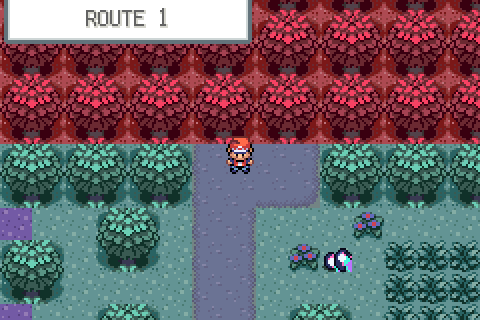
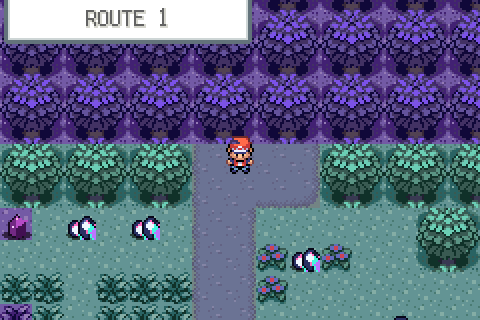
Route 1 v2: chemin sinueux, murs de collines, corniches, panneau en art (v1 conservee en reference)
Claude-Session: https://claude.ai/code/session_01GQJ6VBZbBVtTh4mURN6n2L

diff --git a/docs/topaze/reference/route1_gradient_v1.py b/docs/topaze/reference/route1_gradient_v1.py
@@ -53,13 +53,12 @@ def stage_pal(i, t):
     out = [c if k == 0 else hlerp(tint_garnet(*c), tint_opal(*c), t) for k, c in enumerate(ORIG[i])]
     if i == 5: out = [out[0]] + [desat(c, 1 - 0.65 * t) for c in out[1:]]       # sable : la route reste pale vers le nord (comme l'avenue d'Opanihrum)
     return out
-SLOT = {0: {0: 0, 2: 2, 5: 5, 3: 12}, 1: {0: 1, 2: 3, 5: 4, 3: 12}, 2: {0: 7, 2: 8, 5: 9, 3: 12}}     # palette d'origine -> emplacement, par etage
-ART_SLOT = {0: 6, 1: 10, 2: 11}; ROCK_SLOT = 12
+SLOT = {0: {0: 0, 2: 2, 5: 5}, 1: {0: 1, 2: 3, 5: 4}, 2: {0: 7, 2: 8, 5: 9}}     # palette d'origine -> emplacement, par etage
+ART_SLOT = {0: 6, 1: 10, 2: 11}; SIGN_SLOT = 12
 PALS = {}                                        # emplacement -> palette
 for st in range(3):
-    for o, s in SLOT[st].items():
-        if o != 3: PALS[s] = stage_pal(o, TS_[st])
-PALS[ROCK_SLOT] = stage_pal(3, 0.5)          # roche : meme palette violet-gris sur toute la route
+    for o, s in SLOT[st].items(): PALS[s] = stage_pal(o, TS_[st])
+PALS[SIGN_SLOT] = stage_pal(1, 0.0)
 # ------------------------------------------------------------------ metatuiles : variantes par etage
 mt = open(EM + 'tilesets/primary/general/metatiles.bin', 'rb').read(); patt = open(EM + 'tilesets/primary/general/metatile_attributes.bin', 'rb').read()
 hdr = open('include/constants/metatile_behaviors.h').read()
@@ -75,17 +74,20 @@ def conv(v):
 PATT32 = [conv(struct.unpack('<H', patt[i * 2:i * 2 + 2])[0]) for i in range(len(patt) // 2)]
 SEC_ENT = []; SEC_ATT = []; VAR = {}
 def variant(m, st, special=None):
-    """numero de metatuile FireRed pour la metatuile primaire m a l'etage st (etage 0 : la primaire elle-meme si aucune palette ne change)."""
-    key = (m, st)
+    """numero de metatuile FireRed pour la metatuile primaire m a l'etage st (0 = primaire tel quel)."""
+    if st == 0 and special is None: return m
+    key = (m, st, special)
     if key in VAR: return VAR[key]
-    e = list(struct.unpack('<8H', mt[m * 16:m * 16 + 16]))
-    out = [(q & 0xfff) | (SLOT[st].get(q >> 12, q >> 12) << 12) for q in e]
-    if out == e: VAR[key] = m; return m
+    e = list(struct.unpack('<8H', mt[m * 16:m * 16 + 16])); out = []
+    for q in e:
+        p = q >> 12; mp = dict(SLOT[st]); 
+        if special == 'sign': mp[1] = SIGN_SLOT
+        out.append((q & 0xfff) | (mp.get(p, p) << 12))
     SEC_ENT.append(out); SEC_ATT.append(PATT32[m]); VAR[key] = 640 + len(SEC_ENT) - 1
     return VAR[key]
 # ------------------------------------------------------------------ carte
 W, H = 26, 54
-GRASS_M, FLOWER_M, TALL_M = 1, 4, 13
+GRASS_M, FLOWER_M, TALL_M, SIGN_M = 1, 4, 13, 3
 TREE = [[468, 469], [476, 477]]
 G = {}; OCC = {}; STG = {}
 rnd = random.Random(1010)
@@ -121,7 +123,7 @@ PATH = set()
 def seg(x0, y0, x1, y1):
     for y in range(min(y0, y1), max(y0, y1) + 1):
         for x in range(min(x0, x1), max(x0, x1) + 1): PATH.add((x, y))
-pts = [(12, H - 1), (12, 48), (6, 48), (6, 42), (14, 42), (14, 37), (8, 37), (8, 31), (16, 31), (16, 26), (10, 26), (10, 20), (18, 20), (18, 15), (8, 15), (8, 9), (14, 9), (14, 0)]
+pts = [(12, H - 1), (12, 44), (5, 44), (5, 30), (17, 30), (17, 18), (9, 18), (9, 8), (14, 8), (14, 0)]
 for (a, b) in zip(pts, pts[1:]):
     (x0, y0), (x1, y1) = a, b
     seg(x0, y0, x1, y1 + 1) if y0 == y1 else seg(x0, y0, x1 + 1, y1)
@@ -141,40 +143,12 @@ def path_id(x, y):
 for (x, y) in PATH:
     if 0 <= x < W and 0 <= y < H: put(x, y, 0x3000, path_id(x, y)); OCC[(x, y)] = 'chemin'
 # ---- herbes hautes (rencontres)
-# ---- collines (monticules de roche 2x2), murs de collines qui ne laissent que le chemin, corniches (saut vers le sud)
-MOUND = [[131, 132], [139, 140]]
-def mound(x, y):
-    claim(x, y, 2, 2, 'colline'); st = stage_at(x + 1, y + 1)
-    for j in range(2):
-        for i in range(2): G[(x + i, y + j)] = 0x400 | variant(MOUND[j][i], st)
-def free2(x, y): return all((x + i, y + j) not in OCC for i in range(2) for j in range(2))
-def wall(y):
-    for x in range(2, W - 3, 2):
-        if free2(x, y): mound(x, y)
-for y in (44, 33, 22, 16, 11): wall(y)
-LEDGES = []
-def ledge(x, y, n):
-    for i in range(n):
-        LEDGES.append((x + i, y))
-        claim(x + i, y, 1, 1, 'corniche'); G[(x + i, y)] = 0x3000 | variant(213 + (i % 2), stage_at(x + i, y))
-for (x, y, n) in ((2, 39, 5), (19, 36, 5), (2, 28, 4), (19, 28, 4), (14, 12, 5)):
-    if all((x + i, y) not in OCC for i in range(n)): ledge(x, y, n)
-    if free2(x - 2, y) and x >= 4: mound(x - 2, y)
-    if free2(x + n, y) and x + n <= W - 4: mound(x + n, y)
-# ---- herbes hautes (rencontres) : rectangles libres pres du chemin
-STONE = (19, 5)
-for j in range(3):
-    for i in range(3): OCC[(STONE[0] + i, STONE[1] + j)] = 'reserve'
-TALL = []
-tries = 0
-while len(TALL) < 10 and tries < 3000:
-    tries += 1; x0 = rnd.randint(2, W - 8); y0 = rnd.randint(3, H - 8); w = rnd.randint(3, 5); h = rnd.randint(3, 4)
-    cells = [(x, y) for y in range(y0, y0 + h) for x in range(x0, x0 + w)]
-    if x0 + w > W - 3 or y0 + h > H - 4 or any(c in OCC for c in cells): continue
-    if not any((x + dx, y + dy) in PATH for (x, y) in cells for dx in (-3, 3) for dy in (-3, 3)): continue
-    if any((x, y) in OCC for (x, y) in [(x0 - 1, y0 + k) for k in range(h)] + [(x0 + w, y0 + k) for k in range(h)]) and False: continue
-    TALL.append((x0, y0, x0 + w - 1, y0 + h - 1))
-    for c in cells: OCC[c] = 'herbe'; put(c[0], c[1], 0x3000, TALL_M)
+TALL = [(6, 47, 9, 50), (1, 33, 3, 38), (7, 33, 11, 36), (19, 33, 23, 37), (19, 22, 23, 26), (12, 20, 15, 25), (1, 12, 6, 16), (11, 11, 16, 15), (19, 9, 23, 13), (20, 3, 24, 6)]
+for (x0, y0, x1, y1) in TALL:
+    for y in range(y0, y1 + 1):
+        for x in range(x0, x1 + 1):
+            if (x, y) in OCC: continue
+            OCC[(x, y)] = 'herbe'; put(x, y, 0x3000, TALL_M)
 # ---- art : cristaux (prismes de grenat -> domes d'opale), pierre du degrade
 LG = E.load('general', 'petalburg')
 def grass_cols(st):
@@ -247,25 +221,16 @@ ART = {}      # (nom, etage) -> indice(s) de metatuile d'art
 for st in range(3):
     ART[('sm0', st)] = meta(small(st, 0), st); ART[('sm1', st)] = meta(small(st, 1), st)
     b = big(st); ART[('big', st)] = {(i, j): meta(b.crop((i * 16, j * 16, i * 16 + 16, j * 16 + 16)), st) for j in range(3) for i in range(3)}
-def sign_art(st):
-    im = ground_bg(16, 16, st); d = ImageDraw.Draw(im); d.ellipse((2, 12, 14, 15), fill=13)
-    d.rectangle((7, 8, 8, 14), fill=6, outline=5); d.rectangle((2, 2, 13, 9), fill=8, outline=5)
-    for y in (4, 6): d.line([(4, y), (11, y)], fill=6)
-    return im
-for st in range(3): ART[('sign', st)] = meta(sign_art(st), st)
 ART_PLACE = {}
 def art1(x, y, name):
     claim(x, y, 1, 1, 'cristal'); ART_PLACE[(x, y)] = ART[(name, stage_at(x, y))]
 def art_big(x0, y0):
     st = stage_at(x0 + 1, y0 + 1); claim(x0, y0, 3, 3, 'pierre du degrade')
     for (i, j), k in ART[('big', st)].items(): ART_PLACE[(x0 + i, y0 + j)] = k
-for j in range(3):
-    for i in range(3): del OCC[(STONE[0] + i, STONE[1] + j)]
-art_big(*STONE)                                  # la pierre du degrade, a l'est du chemin
+art_big(20, 15)                                  # la pierre du degrade, a l'est du chemin
 # ---- panneau, PNJ
-SIGN = (11, 51); claim(*SIGN, 1, 1, 'panneau'); ART_PLACE[SIGN] = ART[('sign', 0)]
-NPC = {'clerk': (14, 50), 'boy': (18, 29)}
-for c in NPC.values(): assert c not in OCC, ('PNJ sur un decor', c)
+SIGN = (11, 49); claim(*SIGN, 1, 1, 'panneau'); put(SIGN[0], SIGN[1], 0x400, SIGN_M, special='sign')
+NPC = {'clerk': (14, 46), 'boy': (15, 28)}
 # ---- bosquets d'arbres (hors chemin, hors herbes, hors cases reservees ; marge de 1 case)
 def near(x, y, r=1):
     for j in range(-r, r + 1):
@@ -305,7 +270,7 @@ while q:
     for d in ((0, 1), (1, 0), (-1, 0), (0, -1)):
         n = (c[0] + d[0], c[1] + d[1])
         if 0 <= n[0] < W and 0 <= n[1] < H and n not in seen and not blocked(n): seen.add(n); q.append(n)
-for c in [(x, 0) for x in N_GATE] + [(x, H - 1) for x in S_GATE] + list(NPC.values()) + [(SIGN[0] + 1, SIGN[1])]: assert c in seen, ('inaccessible', c)
+for c in [(x, 0) for x in N_GATE] + [(x, H - 1) for x in S_GATE] + list(NPC.values()) + [(SIGN[0], SIGN[1] + 1)]: assert c in seen, ('inaccessible', c)
 for (x0, y0, x1, y1) in TALL: assert (x0, y0) in seen or (x1, y1) in seen, ('herbe inaccessible', x0, y0)
 # ------------------------------------------------------------------ ecriture
 for _m in (468, 469, 476, 477): variant(_m, 1)      # bord de carte : arbres du mélange (violet), neutre entre les deux villes
@@ -370,7 +335,7 @@ L = json.load(open('data/layouts/layouts.json'))
 for l in L['layouts']:
     if l.get('id') == 'LAYOUT_ROUTE1': l.update(width=W, height=H, primary_tileset='gTileset_GeneralGradient', secondary_tileset='gTileset_GradientRoad')
 json.dump(L, open('data/layouts/layouts.json', 'w'), indent=2); open('data/layouts/layouts.json', 'a').write('\n')
-json.dump({'sign': SIGN, 'npc': NPC, 'w': W, 'h': H, 'tall': TALL, 'ledges': LEDGES}, open('/tmp/route1_info.json', 'w'))
+json.dump({'sign': SIGN, 'npc': NPC, 'w': W, 'h': H, 'tall': TALL}, open('/tmp/route1_info.json', 'w'))
 blk = sorted([x, y] for (x, y) in ((x, y) for y in range(H) for x in range(W)) if blocked((x, y)))
 json.dump({'w': W, 'h': H, 'blocked': blk}, open('/tmp/route1_col.json', 'w'))
 print('route 1 : metatuiles', len(SEC_ENT), 'tuiles art', len(ART_T))

diff --git a/tools/topaze/emu/t_route1b.py b/tools/topaze/emu/t_route1b.py
@@ -4,9 +4,11 @@ from townlib import *
 import json
 import grenalux_paths as P
 info = json.load(open('/tmp/route1_info.json'))
+P.B = {tuple(c) for c in json.load(open('/tmp/route1_col.json'))['blocked']}
 P.B |= {(x, y) for (x0, y0, x1, y1) in info['tall'] for y in range(y0, y1 + 1) for x in range(x0, x1 + 1)}
+P.B |= {tuple(c) for c in info['ledges']} | {tuple(c) for c in info['npc'].values()}
 start('r1_0')
-for tgt in ((12, 49), (15, 30), (15, 9)):
+for tgt in ((12, 50), (14, 40), (9, 30), (11, 21), (13, 15), (9, 10), (15, 4)):
     print(tgt, goto(tgt, maxit=30))
 print(sh(['shot r1_mid.ppm']))
 print('nord ->', goto((15, 1), maxit=20), sh(['key UP 40', 'run 100', 'shot r1_op.ppm']))

diff --git a/docs/technique/ARCHITECTURE.md b/docs/technique/ARCHITECTURE.md
@@ -48,7 +48,7 @@ Le dépôt est celui de pokefirered ; seuls les éléments modifiés pour Topaze
 | **Grenalux v5 – grande ville 44×36 (référence v5)** | `docs/topaze/grenalux_big.py` (ordre : `import_emerald_tiles.py` → `grenat_palette.py` → `grenalux_big.py`) : avenue nord-sud, grande rue est-ouest, place centrale avec îlot et monument de cristal, bassin sud relié à la route 21, 4 bâtiments utiles (joueur (8,9), ranch (36,8), labo (35,21), musée (8,21)) et 6 maisons décoratives, potager, ~34 arbres, cristaux. Connexions : route 1 décalée de 10 (ouverture en x=22..23), route 21 décalée de 14 (eau en x=21..23). `heal_locations.json` : respawn (8,10). **La v4 (24×20) reste la référence** : branche `grenalux-v4-reference` et `docs/topaze/reference/` (carte, map.json, scripts, image) ; ses scripts (`grenalux_emerald.py`, `grenalux_crystals.py` en `__main__`) restent exécutables mais il faut alors remettre les dimensions 24×20 dans `layouts.json` et `map.json`. |
 | **Grenalux v6 – ville vivable (version actuelle)** | `docs/topaze/grenalux_town.py` puis `grenalux_events.py` (ordre : `import_emerald_tiles.py` → `grenat_palette.py` → `git checkout fa8f0d0 -- data/layouts/layouts.json` → `grenalux_town.py` → `grenalux_events.py`). Plan d'occupation avec assertions (aucun chevauchement, portes et PNJ atteignables), toits en variantes de palette (11 ardoise-violet, 12 ocre), lampadaires de cristal, cristaux gardiens de l'avenue, carrière de blocs + entrée de mine à l'est, bassin avec promenade, potager, bosquets, chemins de portes par BFS, 6 PNJ d'ambiance (textes provisoires). **Ranch** : maison voisine remplacée par un **jardin de baies décoratif** (parcelle clôturée, buissons à baies non récoltables, jardinière qui l'explique) ; panneau du ranch en (37,9). Clôtures, foin, abreuvoir, buissons, grange et silo (grand ranch) sont dessinés par code dans `grenalux_crystals.py` (pas de moulin/grange dans les tilesets officiels FR/Émeraude). **Grand ranch** : carte `PalletTown_Ranch` (32×24, groupe 4 n°5, layout `LAYOUT_PALLET_TOWN_RANCH`), généré par la 2ᵉ partie de `grenalux_town.py` puis `grenalux_ranch_events.py` ; accessible par l'ouverture du cadre d'arbres à l'est de Grenalux (x=42..43, y=6..7, connexion « droite » décalage 0) : écurie, grange + silo, 3 enclos, cristaux, ouvriers, fillette, animaux. **Avant/après l'attaque** (`FLAG_GRENALUX_ONYBRIS_STRIKE`) : clôture est de l'enclos B intacte puis ouverte (`setmetatile` au chargement), Doduo et 2 Nidoran (Pokémon pisteurs) présents puis disparus, ouvrier au pied de la clôture coupée (`FLAG_HIDE_RANCH_CUT_HAND`) visible seulement après, dialogues des ouvriers changés. Mêmes portes/coordonnées d'événements que la v5 sauf panneau du labo (36,22). **Sorties de ville** : nord (Route 1) et sud (Route 21, par l'eau) sont des **warps** (pas des connexions : mélange de tilesets Émeraude/FR = tuiles brouillées) ; un warp s'active sur case ordinaire dans PalletTown/Route1/Route21_North grâce à `IsTopazeStepWarpMap()` (`src/field_control_avatar.c`). Seule la connexion est (ranch) subsiste, même tileset. Les versions v4 (24×20) et v5 (44×36) restent archivées : branches `grenalux-v4-reference`, `grenalux-v5-reference` et `docs/topaze/reference/`. |
 | **Opanihrum v1 – la cité de l'Opale noire (arène d'Hepha, Acier)** | Ville 42×40 (slot de Jadielle, `LAYOUT_VIRIDIAN_CITY`) construite avec les décors de **Rustboro** (pierre grise d'Émeraude) recolorés en ardoise bleu-nuit (« plus il est sombre, plus il cache de couleurs », cf. dialogue d'Hepha) + art procédural : monument d'opale noire à reflets irisés, enclumes, lingots. `docs/topaze/opanihrum_town.py` (génère carte + tilesets `general_opal` / `rustboro_opal`, **secondaire compacté** : seules les métatuiles utilisées sont gardées, 161+49 tuiles sur 384) puis `opanihrum_events.py`. Rendu d'aide au choix des morceaux : `docs/topaze/emrender.py` (`../pokeemerald` doit avoir `data/layouts/RustboroCity` en sparse-checkout). Bâtiments : **fonderie** (10×9, arène, 2 portes en (8,11)/(9,11), verrouillée par `VAR_MAP_SCENE_VIRIDIAN_CITY_GYM_DOOR`), école, maison, Centre (16,20), Boutique (27,20) + 6 bâtiments décoratifs, fontaine, parc, parterres, lampadaires, grille de fer. Vieil homme (barrage/tutoriel de capture) déplacé à la **porte nord** (20,2), déclencheur (21,2). Sorties = **warps** : nord Route 2 (`x=7..11,y=79`), sud Route 1 (`x=10..13,y=0`), ouest Route 22 (`x=47,y=6..9`) ; `IsTopazeStepWarpMap()` étendu à `LAYOUT_VIRIDIAN_CITY`/`ROUTE2`/`ROUTE22`. Respawn du Centre mis à jour (`heal_locations.h`). Ordre : `opanihrum_town.py` → `opanihrum_events.py` → supprimer `build/firered/data/maps.o` → `make`. Rendu : `docs/topaze/reference/opanihrum_v1.png`. |
-| **Route 1 « route du dégradé » (carte entièrement nouvelle 26×54)** | `docs/topaze/route1_gradient.py` puis `route1_events.py`. Les couleurs glissent du **grenat** (sud, Grenalux) au **violet** puis à l'**opale noire** (nord, Opanihrum) : 3 étages de palettes (mélange en teinte HLS par le violet) ; les métatuiles d'Émeraude (herbe, arbres, fleurs, herbe haute, sable) sont recopiées dans le tileset secondaire `gradient_road` avec d'autres numéros de palette (emplacements : étage 0 = primaire 0,2,5 ; étage 1 = primaire 1,3,4 ; étage 2 = secondaire 7,8,9 ; art 6/10/11 ; panneau 12), l'étage de chaque case suit le gradient sud→nord + un champ lisse + un grain (fondu irrégulier). Chemin sinueux, 10 zones d'herbes hautes (rencontres), cristaux épars (prismes de grenat → dômes d'opale) et « pierre du dégradé » (3×3). Warps : sud (12..13,53) ↔ Grenalux, nord (14..17,0) ↔ Opanihrum. Le garçon et le panneau ont de nouveaux textes (plus de corniches). Primaire `general_gradient`. Rendu : `docs/topaze/reference/route1_gradient_v1.png`. |
+| **Route 1 « route du dégradé » (carte entièrement nouvelle 26×54)** | `docs/topaze/route1_gradient.py` puis `route1_events.py`. Les couleurs glissent du **grenat** (sud, Grenalux) au **violet** puis à l'**opale noire** (nord, Opanihrum) : 3 étages de palettes (mélange en teinte HLS par le violet) ; les métatuiles d'Émeraude (herbe, arbres, fleurs, herbe haute, sable) sont recopiées dans le tileset secondaire `gradient_road` avec d'autres numéros de palette (emplacements : étage 0 = primaire 0,2,5 ; étage 1 = primaire 1,3,4 ; étage 2 = secondaire 7,8,9 ; art 6/10/11 ; panneau 12), l'étage de chaque case suit le gradient sud→nord + un champ lisse + un grain (fondu irrégulier). Chemin sinueux, 10 zones d'herbes hautes (rencontres), cristaux épars (prismes de grenat → dômes d'opale) et « pierre du dégradé » (3×3). Warps : sud (12..13,53) ↔ Grenalux, nord (14..17,0) ↔ Opanihrum. Le garçon et le panneau ont de nouveaux textes (plus de corniches). Primaire `general_gradient`. Rendu : `docs/topaze/reference/route1_gradient_v1.png`. **v2 (actuelle)** : chemin beaucoup plus sinueux (18 points, segments courts), 5 **murs de collines** (monticules de roche 2×2, métatuiles 131/132/139/140, palette de roche partagée en 12) qui ne laissent que le chemin, **corniches** (ledges, saut vers le sud) en terrasses, panneau dessiné en art ; herbes hautes tirées au hasard près du chemin. La v1 (chemin presque droit) est conservée : `docs/topaze/reference/route1_gradient_v1.{png,py}` et branche `route1-gradient-v1-reference`. |
 | Ville de départ Grenalux | `PalletTown` (`text.inc`), `region_map_entry_strings.h` |
 | Rival par défaut ZEPHYR | `data/text/new_game_intro.inc` |
 | Team Onybris | ~58 fichiers (classe de dresseur + dialogues), remplacement de « TEAM ROCKET » / « ROCKET » dans les `.string` uniquement |
